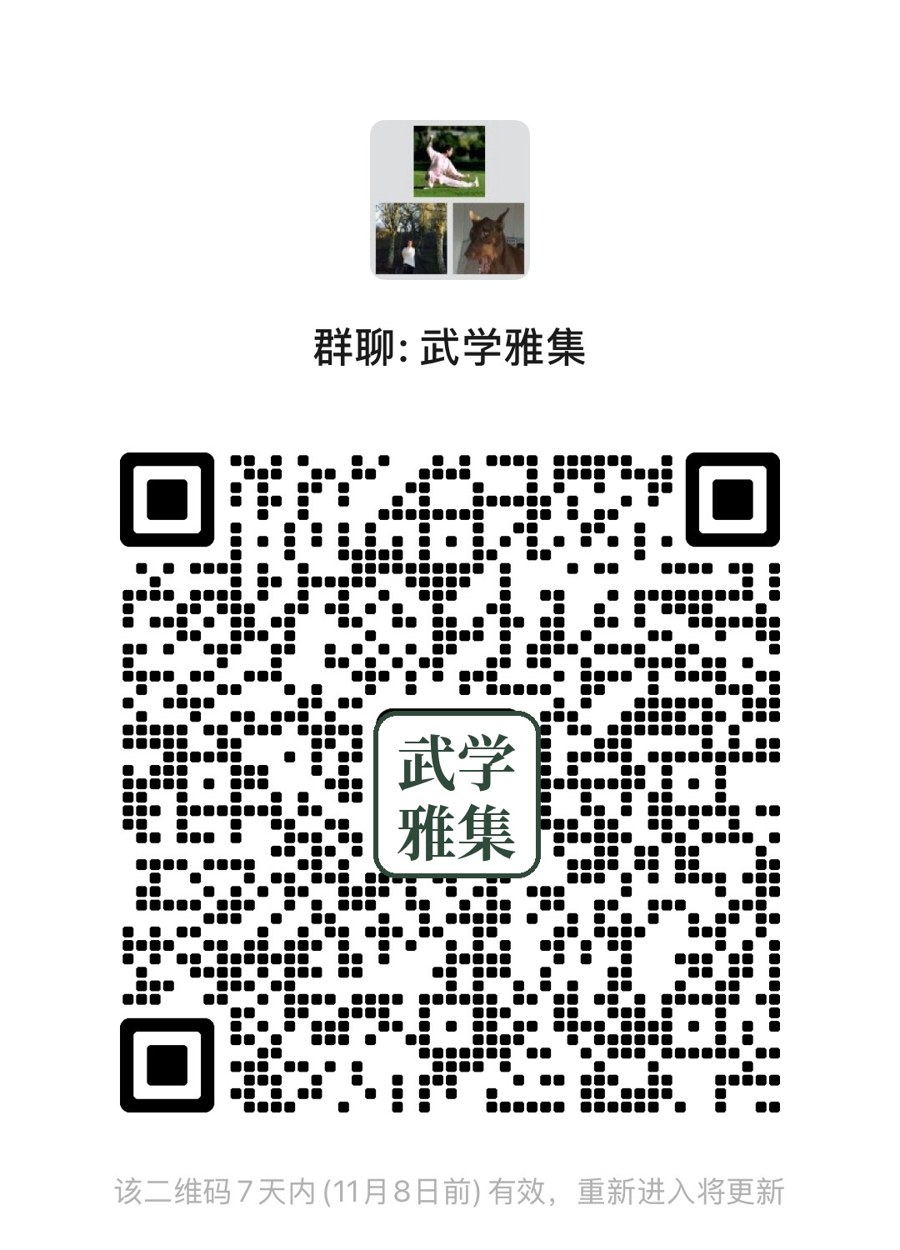
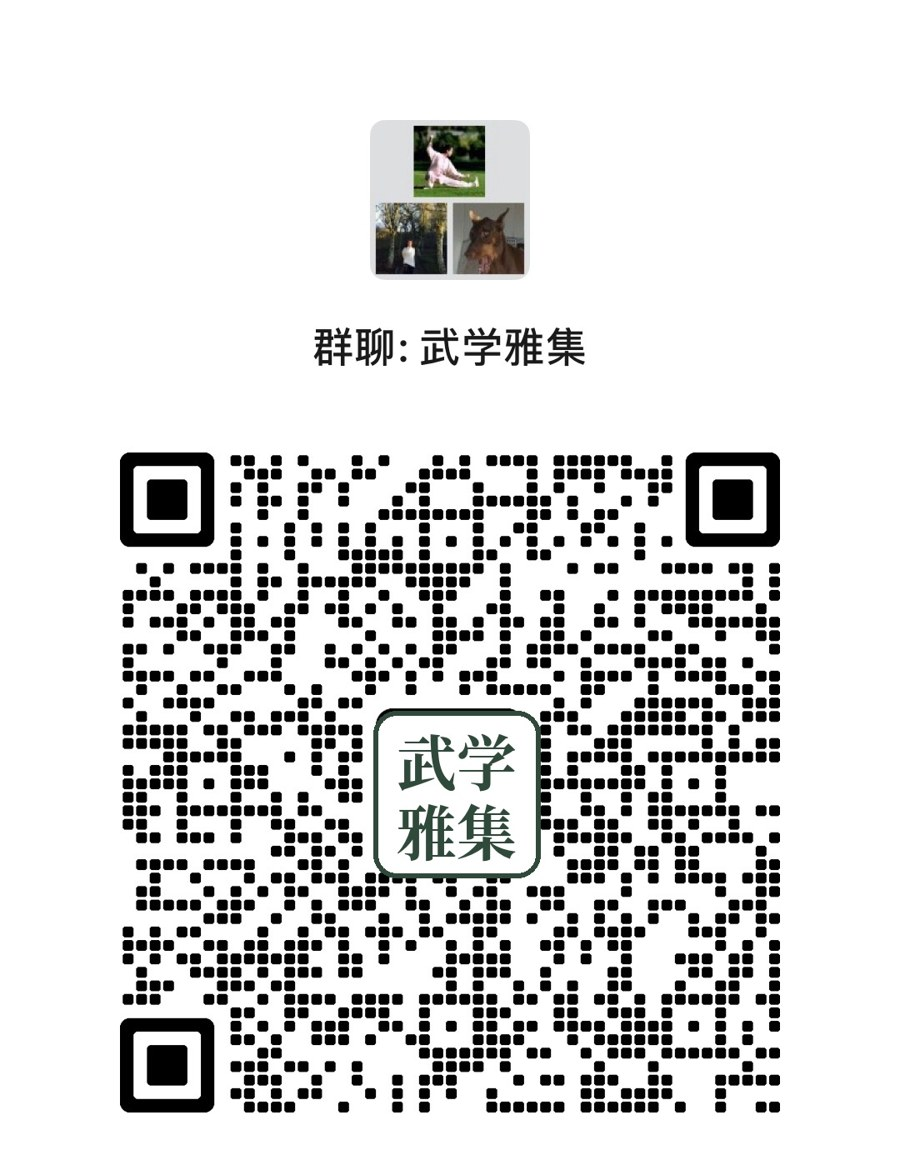
Crop WeChat expiry line from QR image

Changed region(s): [[0.1244, 0.3348, 0.8711, 0.9739], [0.3422, 0.0913, 0.6533, 0.3348]]

diff --git a/gatherings/2026-11-shanju-yaji.html b/gatherings/2026-11-shanju-yaji.html
@@ -111,7 +111,7 @@
     <p class="font-serifen italic text-mist leading-relaxed mb-6">To register, please use the sign-up form on this site.</p>
     <p class="leading-relaxed mb-1">想了解详情或有疑问，扫码加入「武学雅集」微信群</p>
     <p class="font-serifen italic text-mist leading-relaxed mb-6">Questions or want details? Scan to join the 武学雅集 WeChat group.</p>
-    <img src="../images/gatherings/wechat-group-qr.jpg?v=20261101b" alt="「武学雅集」微信群二维码 / 武学雅集 WeChat group QR code" class="mx-auto w-full max-w-xs" loading="lazy">
+    <img src="../images/gatherings/wechat-group-qr.jpg?v=20261101c" alt="「武学雅集」微信群二维码 / 武学雅集 WeChat group QR code" class="mx-auto w-full max-w-xs" loading="lazy">
   </div>
 </section>
 <footer class="bg-charcoal text-gray-500 py-12 text-center text-xs font-sans tracking-[0.2em]"><p>© 2026 苍岭清舍 · Eastern Mountain Life. ALL RIGHTS RESERVED.</p></footer>
